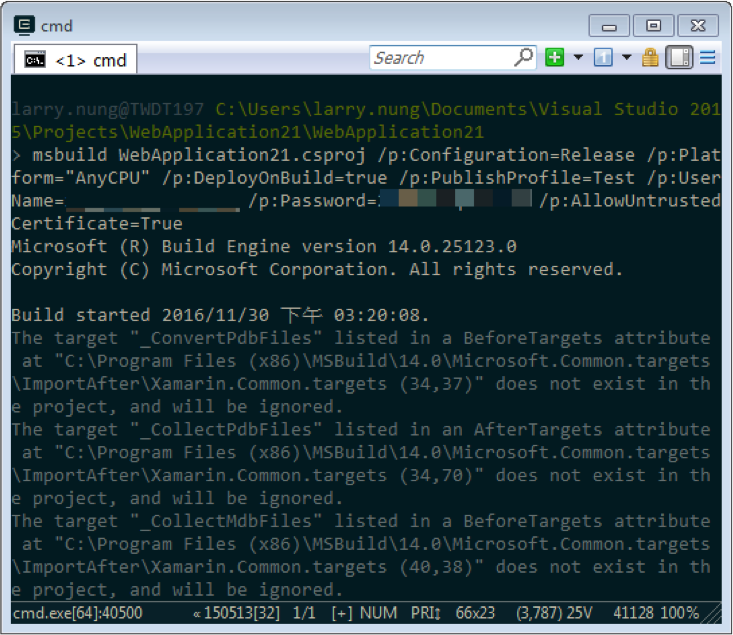
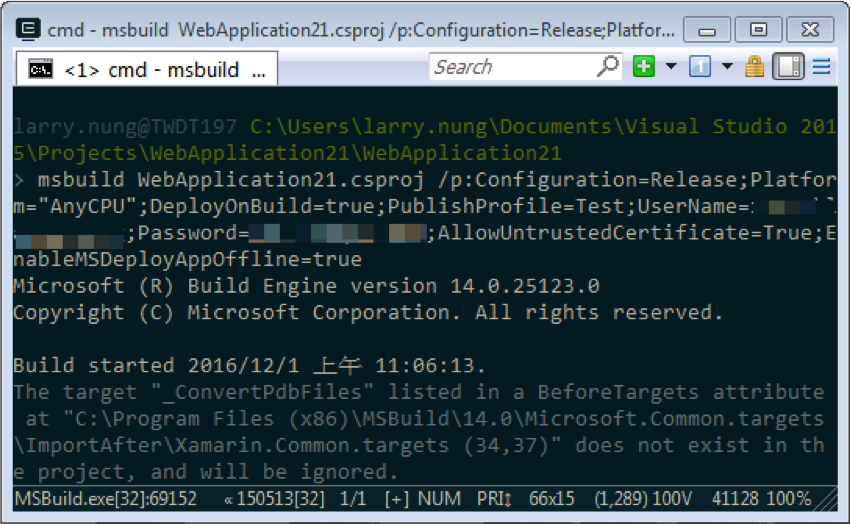
Modify Post: Web Deploy - Publish with MsBuild

diff --git a/source/_posts/Web-Deploy-Publish-with-MsBuild.md b/source/_posts/Web-Deploy-Publish-with-MsBuild.md
@@ -8,33 +8,40 @@ tags: [Web Deploy]
 
 <!-- More -->
 
-    msbuild <ProjectFile|SolutionFile> /p:Configuration=<Configuration>;Platform="<Platform>";DeployOnBuild=true;PublishProfile=<PublishProfile>
+    msbuild <ProjectFile|SolutionFile> 
+            /p:Configuration=<Configuration>;
+               Platform="<Platform>";
+               DeployOnBuild=true;
+               PublishProfile=<PublishProfile>
 
 <br/>
 
 
 若有需要可加帶 UserName 參數指定帳號，加帶 Password 參數指定密碼。  
 
-    msbuild <ProjectFile|SolutionFile> /p:Configuration=<Configuration>;Platform="<Platform>";DeployOnBuild=true;PublishProfile=<PublishProfile>;UserName=<UserName>;Password=<Password>
+    msbuild <ProjectFile|SolutionFile> 
+            /p:Configuration=<Configuration>;
+               Platform="<Platform>";
+               DeployOnBuild=true;
+               PublishProfile=<PublishProfile>;
+               UserName=<UserName>;
+               Password=<Password>
 
 <br/>
 
+或是加帶其他參數，像是加帶 EnableMSDeployAppOffline 參數使用 AppOffline rule 做佈署，讓 Web deploy 在做發佈的同時幫你放上 App_Offline 頁面。  
 
-或是加帶 AllowUntrastedCertificate參數。  
-
-    msbuild <ProjectFile|SolutionFile> /p:Configuration=<Configuration>;Platform="<Platform>";DeployOnBuild=true;PublishProfile=<PublishProfile>;UserName=<UserName>;Password=<Password>;AllowUntrustedCertificate=True
+    msbuild <ProjectFile|SolutionFile> 
+            /p:Configuration=<Configuration>;
+               Platform="<Platform>";
+               DeployOnBuild=true;
+               PublishProfile=<PublishProfile>;
+               UserName=<UserName>;
+               Password=<Password>;
+               AllowUntrustedCertificate=True; 
+               EnableMSDeployAppOffline=true
 
 
 {% asset_img 1.png %}
-
-<br/>
-
-
-或是加帶 EnableMSDeployAppOffline 參數使用 AppOffline rule 做佈署，讓 Web deploy 在做發佈的同時幫你放上 App_Offline 頁面。  
-
-    msbuild <ProjectFile|SolutionFile> /p:Configuration=<Configuration>;Platform="<Platform>";DeployOnBuild=true;PublishProfile=<PublishProfile>;UserName=<UserName>;Password=<Password>;AllowUntrustedCertificate=True; EnableMSDeployAppOffline=true
-
-
-{% asset_img 2.png %}
 
 <br/>
